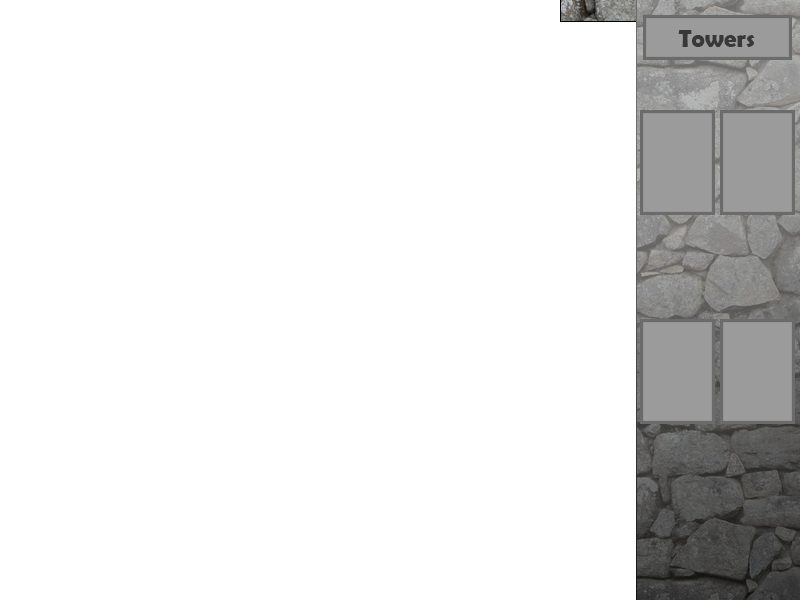
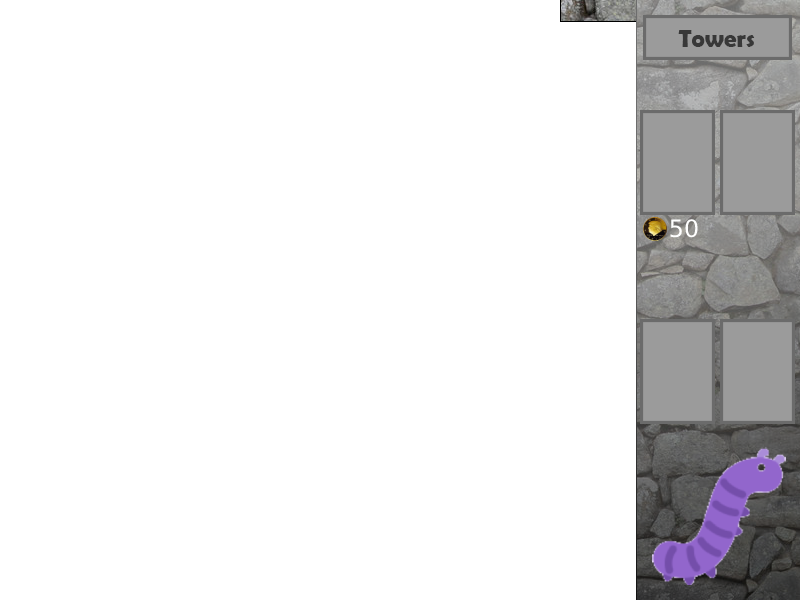
real instruction screen, store adujstment

Changed region(s): [[0.8125, 0.75, 1.0, 0.99], [0.7812, 0.36, 0.875, 0.42]]

diff --git a/app.js b/app.js
@@ -232,19 +232,19 @@ class SceneInstructions extends Phaser.Scene {
 
     }
     preload() {
-        this.load.image('background', 'assets/sky.png');
+        this.load.image('instructions', 'assets/instructions.png');
         console.log("preloaded deez nuts");
         
     }
     create() {
         let centerX = this.cameras.main.centerX;
         let centerY = this.cameras.main.centerY;
-        this.background = this.add.image(centerX, centerY, "background").setOrigin(.5, .5);
+        this.background = this.add.image(centerX, centerY, "instructions").setOrigin(.5, .5);
         // Based on your game size, it may "stretch" and distort.
         this.background.displayWidth = this.sys.canvas.width;
         this.background.displayHeight = this.sys.canvas.height;
 
-        this.add.rectangle(centerX, centerY, 600, 450, 0x8A3725)
+        
         
         //CREATING HOW TO PLAY BUTTON
         const backButton = this.add.text(25, 25, "Back", { font: "24px Arial", fill: "#000", backgroundColor: "#f00", padding: 10 });
@@ -256,7 +256,7 @@ class SceneInstructions extends Phaser.Scene {
 
 
 
-        const startButton = this.add.text(725, 25, "Play", { font: "24px Arial", fill: "#000", backgroundColor: "#0f0", padding: 10 });
+        const startButton = this.add.text(710, 25, "Play", { font: "24px Arial", fill: "#000", backgroundColor: "#0f0", padding: 10 });
         startButton.setInteractive();
         startButton.on('pointerdown', function () {
             console.log("you clicked play!")
